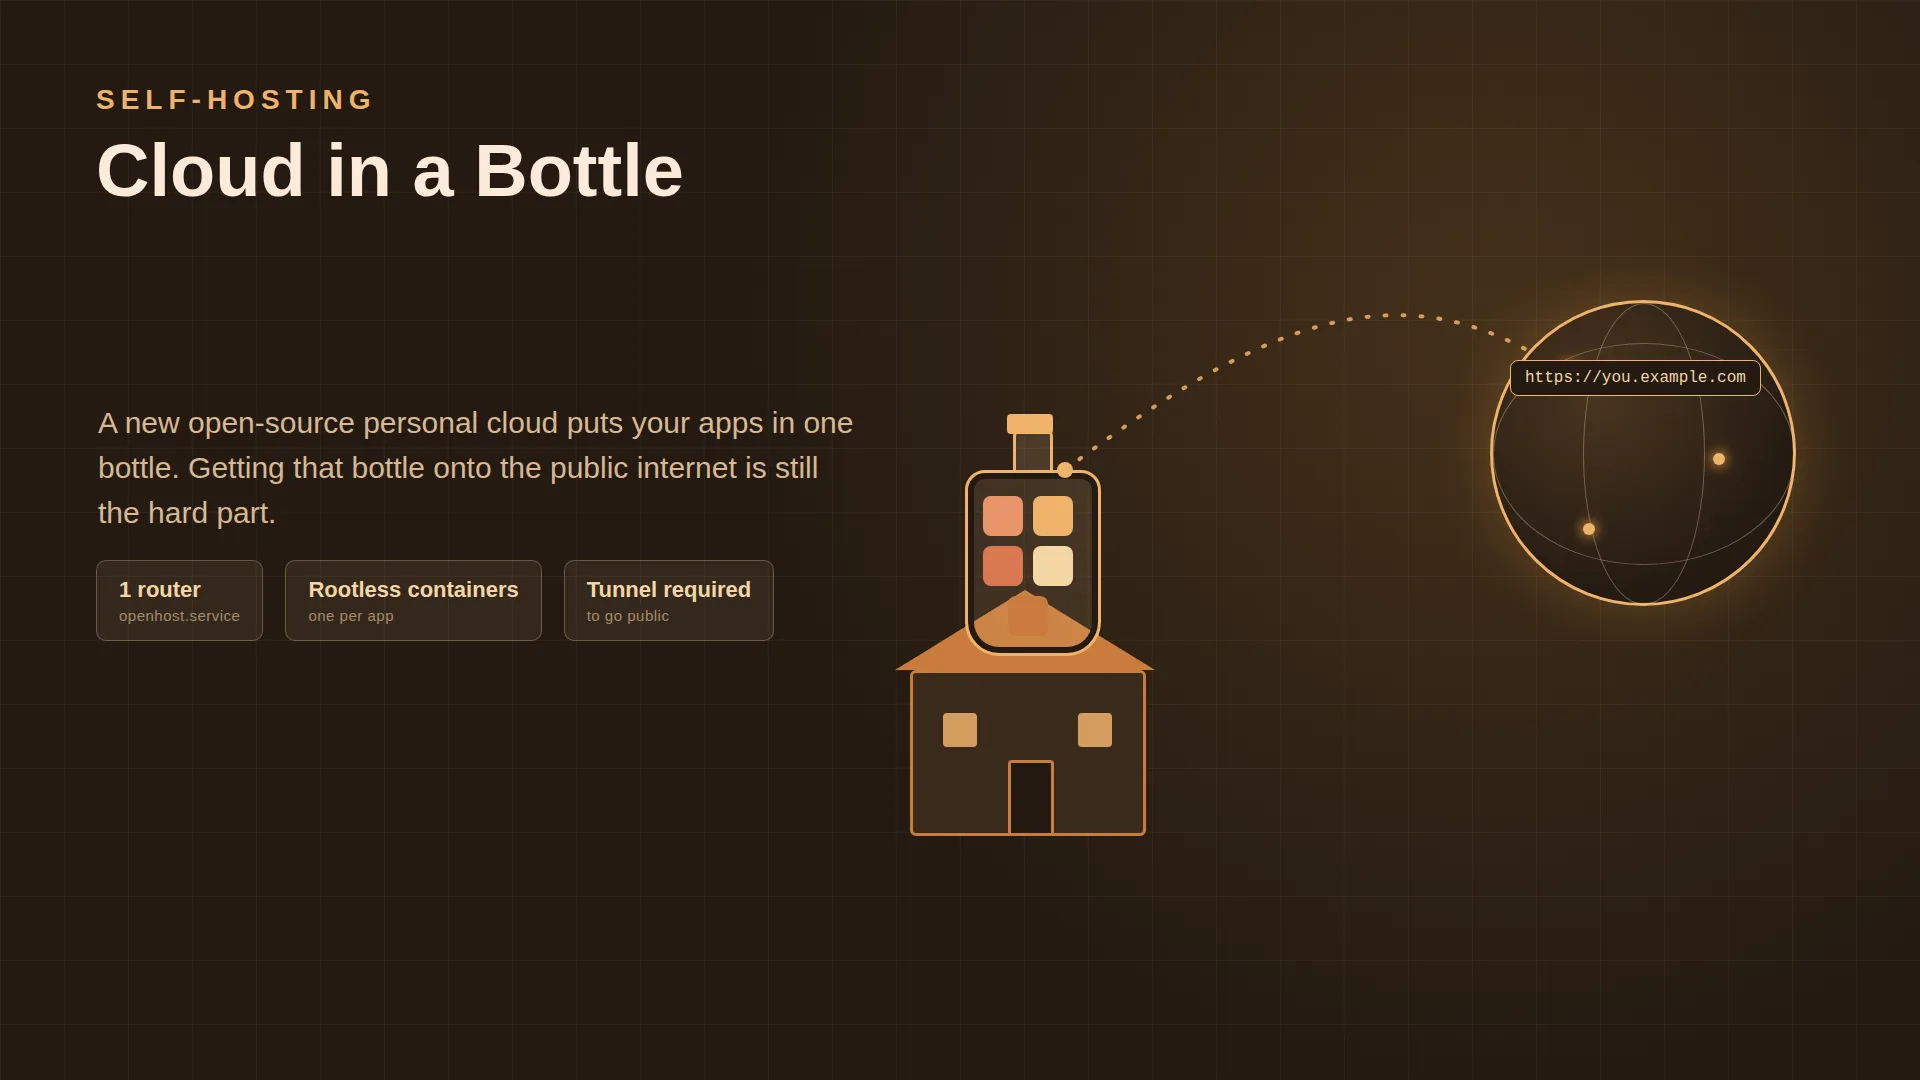
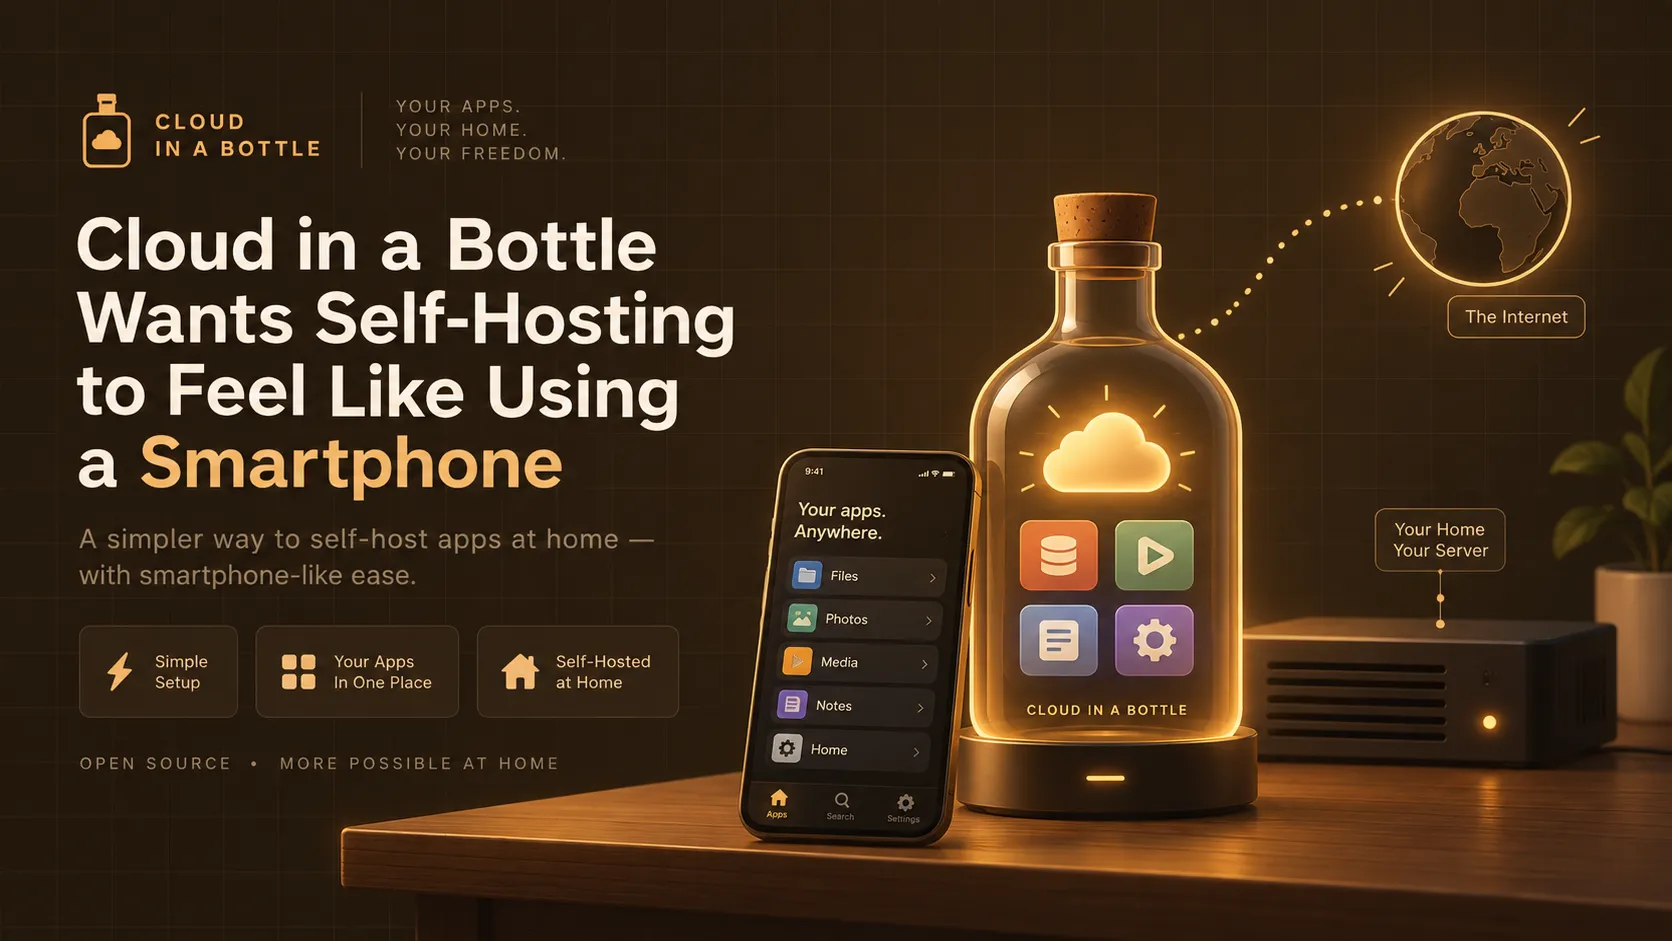
Add new images and update blog content for Ngrok alternatives and Cloud in a Bottle

diff --git a/content/blog/cloud_in_a_bottle_self_hosted_personal_cloud.md b/content/blog/cloud_in_a_bottle_self_hosted_personal_cloud.md
@@ -3,6 +3,7 @@ title: "Cloud in a Bottle Wants Self-Hosting to Feel Like Using a Smartphone"
 description: "Imbue's new open-source personal cloud platform packages containerized self-hosted apps behind one login and one router. It's a genuinely different take on self-hosting, but its own docs admit the networking story isn't solved yet - here's the gap and how to close it today."
 date: 2026-09-06T16:00:00+05:30
 draft: false
+eyebrow: "Cloud in a Bottle"
 tags: ["Cloud in a Bottle", "self-hosted", "open source", "networking", "Pinggy"]
 categories: ["Technology", "Self-Hosting", "Open Source"]
 og_image: "images/cloud_in_a_bottle_self_hosted_personal_cloud/cloud_in_a_bottle_self_hosted_personal_cloud_banner.webp"
@@ -20,8 +21,8 @@ It's not a small ambition. Self-hosting has had plenty of attempts before, and t
 {{% tldr %}}
 1. **What it is**: an open-source (AGPL-3.0), self-hostable "personal cloud OS" - one Ubuntu machine running a router service that reverse-proxies HTTP traffic to rootless Podman containers, one per app, with unified login and a permissioned API for apps to talk to each other.
 2. **Why it's different**: unlike Coolify or CapRover, apps aren't isolated islands - logging into your instance logs you into every app on it, and there's a cross-app service layer modeled loosely on how iOS or Android expose sensors and notifications to apps.
-3. **The catalog is small on purpose**: about 40 curated apps (Nextcloud, Jellyfin, Forgejo, Vaultwarden, Matrix/Synapse, Open WebUI, a Minecraft server, and more), because the project would rather ship fewer apps that feel polished than a long list of rough ones.
-4. **The networking gap, in their own words**: their docs recommend Cloudflare Tunnel for getting a home instance online, but say plainly that it "only works for HTTP-based traffic" and that "any apps specifying non-standard ports in the manifest won't work properly." Tailscale is private-only. Their own IPv4 tunnel service is "coming soon." Plain ISP dynamic IP plus port forwarding is explicitly "not an officially supported path."
+3. **The catalog is small on purpose**: 38 curated apps (Nextcloud, Jellyfin, Forgejo, Vaultwarden, a Matrix homeserver, Open WebUI, a Minecraft server, and more), because the project would rather ship fewer apps that feel polished than a long list of rough ones.
+4. **The networking gap, in their own words**: their docs recommend Cloudflare Tunnel for getting a home instance online, but say plainly that it "only works for HTTP-based traffic" and that "any apps specifying non-standard ports in the manifest won't work properly." Tailscale is private-only. Their own IPv4 tunnel service "should be available soon" but has not shipped. Plain ISP dynamic IP plus port forwarding is explicitly "not an officially supported path."
 5. **The fix that already exists**: {{< link href="https://pinggy.io" >}}Pinggy{{< /link >}}'s SSH-based tunnels handle both HTTP and raw TCP out of the box, work the same whether you're behind CGNAT or a router you don't control, and don't require delegating a domain's DNS to a third party first.
 {{% /tldr %}}
 
@@ -35,11 +36,13 @@ Routing is by hostname. `notes.mycooldomain.com` resolves to the app named `note
 
 ## The catalog, and who it's actually for
 
-At launch the {{< link href="https://cloudinabottle.org/apps" >}}app catalog{{< /link >}} runs to roughly 40 entries, and it reads like a fairly deliberate cross-section of "software people actually want to self-host": Nextcloud for files and calendar, Jellyfin and Navidrome for media, Forgejo for git hosting, Vaultwarden for passwords, a Matrix/Synapse chat stack, Pi-hole, Uptime Kuma, SearXNG, Miniflux, and on the newer end, Open WebUI and a Bifrost LLM gateway for people running local models. There's also a Minecraft server in there, which turns out to matter more than it sounds like it should - more on that shortly.
+{{< image "cloud_in_a_bottle_self_hosted_personal_cloud/cloudinabottle_app_catalog.webp" "The Cloud in a Bottle app catalog page, showing 38 apps filterable by category, including Bluesky, Calibre-Web, and Community Chat" >}}
+
+The {{< link href="https://cloudinabottle.org/apps" >}}app catalog{{< /link >}} currently runs to 38 entries, and it reads like a fairly deliberate cross-section of "software people actually want to self-host": Nextcloud for files and calendar, Jellyfin and Navidrome for media, Forgejo for git hosting, Vaultwarden for passwords, Pi-hole, Uptime Kuma, SearXNG, Miniflux, and on the newer end, Open WebUI and a Bifrost LLM gateway for people running local models. Chat is listed as "Community Chat", which is a Matrix Synapse homeserver with a bundled Cinny web client. A fair number of the entries are Imbue's own (Catalyst, Sculptor, OpenClaw, OpenChamber, Apple Health and Oura connectors), which is worth knowing when you read the catalog as a measure of third-party adoption. There's also a Minecraft server in there, which turns out to matter more than it sounds like it should - more on that shortly.
 
 Polizzi is upfront that the list is small on purpose: "our curated app catalog... aim to maintain a high bar, only adding things that actually deliver a great user experience, so it's pretty small right now." That's a defensible bet against the alternative failure mode, a 500-app catalog where half the entries are broken Docker Compose files nobody's tested in a year, but it does mean the project is currently more interesting to the kind of person reading this post than to the "friends and parents" audience it says it's ultimately aiming at.
 
-You get three ways to run it: a managed instance through Imbue (a $10 free credit to start), a rented cloud VPS you administer yourself, or your own hardware, a spare desktop, an old laptop, or a Raspberry Pi, either in a VM or bare metal. The bare-metal install is a single provisioning script run over SSH as root, and it's the option most in the spirit of the project's own pitch, since it's the one where you genuinely own the box the data lives on.
+You get three ways to run it: a managed instance through Imbue, a rented cloud VPS you administer yourself, or your own hardware, a spare desktop, an old laptop, or a Raspberry Pi, either in a VM or bare metal. Managed pricing starts at $5/month for a 2GB, 2-vCPU instance, with $10/month and $20/month tiers above it and a $10 starter credit, so the small tier is effectively free for the first couple of months. The bare-metal install is a single provisioning script run over SSH as root, and it's the option most in the spirit of the project's own pitch, since it's the one where you genuinely own the box the data lives on.
 
 ## Where the story gets honest: getting a home instance online
 
@@ -49,7 +52,9 @@ Here's the part of the docs worth reading closely, because it's unusually candid
 
 **Tailscale** is the other officially documented path, but it isn't actually exposing anything publicly: "This approach does not make the instance publicly accessible. It makes the instance available only to devices on your tailnet." Fine for reaching your own NAS from your own laptop, useless the moment you want to hand a link to a friend who isn't running Tailscale.
 
-**Their own IPv4 tunnel service** is what they'd rather ship instead of leaning on Cloudflare, and the reasoning is worth quoting in full because it's a precise description of the gap: "It ought to be possible to operate a service that attaches an IP address to a server and forwards any traffic arriving at that IP to your firewalled Bottle instance over a reverse proxy connection, thus avoiding any need for an IP from your ISP and fiddling with router settings. Unfortunately, we can't find any service that actually does this for an individual for reasonable price - so we're building this ourselves." It's listed as "coming soon."
+**Their own IPv4 tunnel service** is what they'd rather ship instead of leaning on Cloudflare, and the reasoning is worth quoting in full because it's a precise description of the gap: "It ought to be possible to operate a service that attaches an IP address to a server and forwards any traffic arriving at that IP to your firewalled Bottle instance over a reverse proxy connection, thus avoiding any need for an IP from your ISP and fiddling with router settings. Unfortunately, we can't find any service that actually does this for an individual for reasonable price - so we're building this ourselves, to make it easier for users to get their self-hosted instances online. This feature should be available soon!" As of this update it still hasn't shipped: the roadmap lists "IP tunnels, for easier setup of self-hosted instances without a static IPv4" among planned opt-in managed services with no date attached, and the managed pricing page mentions no IP tunnel or static IP option at all.
+
+{{< image "cloud_in_a_bottle_self_hosted_personal_cloud/cloudinabottle_ipv4_tunnel_docs.webp" "Cloud in a Bottle documentation admitting it can't find an affordable IPv4 tunnel service and is building one itself, saying the feature should be available soon" >}}
 
 **Plain ISP dynamic IP with router port forwarding** is explicitly waved off: "This isn't an officially supported path," and the docs list exactly the reasons anyone who's tried this knows firsthand - CGNAT means you may not have your own public IP at all, residential IPs move around so DNS needs constant updating, ISPs commonly block inbound ports like 25 for SMTP, and you still have to go configure your router either way.
 
@@ -79,19 +84,31 @@ And for the router's own dashboard, or any of the HTTP apps in the catalog, the 
 ssh -p 443 -R0:localhost:8080 free.pinggy.io
 ```
 
-That's the exact same `ssh -L 8080:localhost:8080` instinct the setup docs already use to reach the dashboard privately during install, just pointed outward instead of at your own laptop. Sign in on {{< link href="https://dashboard.pinggy.io" >}}Pinggy's dashboard{{< /link >}} and you can attach a persistent custom domain to either tunnel, which sidesteps the other awkward requirement in Cloud in a Bottle's Cloudflare Tunnel guide: delegating your entire domain's nameservers to Cloudflare before you can even start. If you'd rather keep DNS with your current registrar, that's not a hard requirement here the way it is with the wildcard-zone-delegation approach the docs walk through for both Cloudflare and the manual acme.sh route.
+That's the exact same `ssh -L 8080:localhost:8080` instinct the setup docs already use to reach the dashboard privately during install, just pointed outward instead of at your own laptop.
+
+One caveat worth being straight about: the anonymous free tunnel in both commands above runs for 60 minutes and hands back a new random address every time it reconnects. That's fine for checking that the Minecraft server is reachable from outside your network, and wrong for a box you intend to leave online. A Pro token drops the timeout and pins the address, the CLI reconnects on its own if the link drops, and with plain SSH you'll want `-o ServerAliveInterval=60` so an idle connection doesn't get closed under you. Sign in on {{< link href="https://dashboard.pinggy.io" >}}Pinggy's dashboard{{< /link >}} and you can attach a persistent custom domain to either tunnel, which sidesteps the other awkward requirement in Cloud in a Bottle's Cloudflare Tunnel guide: delegating your entire domain's nameservers to Cloudflare before you can even start. If you'd rather keep DNS with your current registrar, that's not a hard requirement here the way it is with the wildcard-zone-delegation approach the docs walk through for both Cloudflare and the manual acme.sh route.
 
 None of this replaces the IPv4 tunnel service Imbue is building. A dedicated address forwarding everything, including protocols that don't run over a single TCP connection per client, is a genuinely different and in some ways more complete answer, and there's real value in a self-hosting platform owning that piece end to end instead of telling users to go find a third-party service. But "coming soon" isn't a networking story you can build a home server on this week, and for anyone who wants to run the Minecraft server or a Matrix homeserver in that catalog today rather than in a future release, a TCP tunnel is the thing that makes it reachable in the meantime.
 
 ## The other detail worth noting: it's built with coding agents in mind
 
-One more piece that fits the moment: Cloud in a Bottle ships a `bottle` CLI specifically so a coding agent can "package a project as a Bottle app, deploy it, read the build log, fix what broke, and reload" without ever touching a raw credential, and the docs are served as plain Markdown at `/docs/all.md` so an agent can pull the whole manual in one request instead of scraping rendered HTML. It's a small feature, but it's a sign of who the project expects to be doing a chunk of the app-porting and glue work going forward, and it lines up with Polizzi's own admission that early users will "likely need a bit of technical familiarity (or a coding agent)" to adapt software to run on the platform.
+One more piece that fits the moment: Cloud in a Bottle ships a `bottle` CLI specifically so a coding agent can "package a project as a Bottle app, deploy it, read the build log, fix what broke, and reload" without ever touching a raw credential, because the CLI "injects auth so the agent never handles a token." The docs lean the same way: the whole manual is served as plain Markdown at `/docs/all.md` so an agent can pull it in one request instead of scraping rendered HTML, any individual page is available the same way by appending `.md`, and there's an installable agent skill for the platform. It's a small feature, but it's a sign of who the project expects to be doing a chunk of the app-porting and glue work going forward, and it lines up with Polizzi's own admission that early users will "likely need a bit of technical familiarity (or a coding agent)" to adapt software to run on the platform.
+
+## How the launch landed
+
+The launch post reached the Hacker News front page on 6 September and finished at 652 points across 321 comments, a strong showing for a self-hosting project. Much of the praise was for the writeup itself, the same candour that makes the docs worth reading. The criticism clustered in four places, and it's worth knowing before you commit a weekend to this.
+
+The most repeated objection was that the space is crowded and the launch post didn't engage with it. Cloudron came up again and again, usually from people noting it already does packaged apps with unified auth and has years more operational polish, alongside Umbrel, CapRover, and runtipi. Second was the catalog, with Immich and Home Assistant the two most-missed entries, and more than one commenter describing it as a rather tiny mobile app store. Third was backups, which the managed plans don't really answer yet; Polizzi's reply in the thread put instances at roughly 50GB of disk with an S3 archive tier as the plan. Fourth, and most relevant if you're running this at home, several people balked at CoreDNS answering on port 53 as the zone's authoritative nameserver, which is a real ask for a machine on a residential connection.
+
+There was also a self-inflicted one. Shortly before launch, an account filed eleven issues on unrelated projects asking them to support a `cloudinabottle.toml` manifest. It turned out to be an Imbue employee and the pattern looked agent-generated. Polizzi addressed it in the thread, called it a mistake, and said it would stop. Worth noting mainly because a project asking for trust with your personal data gets judged on how it handles that kind of thing.
 
 ## Should you try it
 
 If you already run a homelab and are tired of Nextcloud's performance or Coolify's per-app logins, Cloud in a Bottle is worth an afternoon on a spare Raspberry Pi. The architecture is sound, the security model (rootless containers, centralized auth, a real permission boundary between apps) is a step up from the YunoHost approach a lot of current self-hosters are used to, and the code is AGPL-3.0 and genuinely open, not open-core with the good parts held back for the managed tier.
 
-If you're coming to it cold, go in with the right expectations: the catalog is intentionally small, the project is six months old by its own account, and the networking layer that gets your instance onto the actual internet is, by the maintainers' own admission, not finished. That last part just happens to be a solved problem already, and not one you need to wait on a roadmap item for. Point a tunnel at it and it's a solved problem today.
+The {{< link href="https://github.com/cloud-in-a-bottle/cloud-in-a-bottle" >}}repository{{< /link >}} backs that up: about 1,100 stars, v0.2.0 tagged the day before launch, and commits landing steadily through the week after it. The committers are almost entirely Imbue staff, though, and Imbue is an AI research lab that raised $200M at a billion-plus valuation to build coding agents, with several of its own tools sitting in the catalog. That cuts both ways. The project is unlikely to run out of money, and it is also a side product of a company whose main business is something else.
+
+If you're coming to it cold, go in with the right expectations: the catalog is intentionally small, the project only went public on 5 September 2026 after six-plus months of private development, and the networking layer that gets your instance onto the actual internet is, by the maintainers' own admission, not finished. That last part just happens to be a solved problem already, and not one you need to wait on a roadmap item for. Point a tunnel at it and it's a solved problem today.
 
 ## Conclusion
 

diff --git a/content/blog/best_ngrok_alternatives.md b/content/blog/best_ngrok_alternatives.md
@@ -2,11 +2,11 @@
  title: "Top 10 Ngrok alternatives in 2026" 
  description: "Discover the top 10 Ngrok alternatives in 2026. Compare Pinggy, Cloudflare Tunnel, Tailscale, Zrok, Localtunnel, LocalXpose and more on features, AI agent support, ease of use, and prices."
  date: 2023-02-01T14:15:25+05:30
- lastmod: 2026-09-10T14:15:25+05:30
+ lastmod: 2026-09-11T14:15:25+05:30
  draft: false 
  tags: ["tunneling", "comparison", "developer tools", "AI agents", "open source"]
  og_image: "images/best_ngrok_alternatives/img1.webp"
[2 lines of base64/hex data omitted]
  outputs:
   - HTML
   - AMP
@@ -72,7 +72,13 @@ The free plan gives you 1GB of transfer, 20k HTTP/S requests, 3 endpoints, and a
 
 ## 1. Pinggy.io
 
-[Pinggy.io](https://pinggy.io) stands out because of its **unlimited bandwidth** and the fact that it lets you start a tunnel without downloading anything. A single command gives users access to your website / app hosted in localhost without configuring the cloud, or any port forwarding, or DNS, or VPN. It also supports UDP tunnels which Ngrok lacks. The Pro plan is 3 USD per month, less than half of Ngrok's entry plan.
+[Pinggy.io](https://pinggy.io) lets you start a tunnel without downloading anything. A single command gives users access to your website / app hosted in localhost without configuring the cloud, or any port forwarding, or DNS, or VPN. The Pro plan is 3 USD per month, less than half of Ngrok's entry plan.
+
+Three things in particular are Pinggy's advantages over Ngrok:
+
+- **Unlimited bandwidth.** No monthly transfer cap and no per-GB overage on paid plans, where Ngrok's entry plan stops at 5GB and then bills $0.10/GB.
+- **Apex domain support.** You can point `example.com` itself at a tunnel, not just `app.example.com`. Ngrok's own docs state it does not support apex domains.
+- **UDP tunnels.** Ngrok has no UDP support at all, so game servers, DNS, WireGuard, and QUIC are off the table there.
 
 To get how simple it is to open a tunnel, here is an example. If you want to share your React app running on `localhost:3000`, you can do so using pinggy with the command.
 
@@ -120,7 +126,7 @@ Pinggy is one of the cheaper Ngrok alternatives. It has a free tier, and the pai
 <tr>
     <td style="border:1px solid #ddd;padding:0.45em;">Unlimited bandwidth on paid plan</td>
     <td style="border:1px solid #ddd;padding:0.45em;">Yes</td>
-    <td style="border:1px solid #ddd;padding:0.45em;">No (entry paid plan has transfer limits)</td>
+    <td style="border:1px solid #ddd;padding:0.45em;">No (5GB on the Hobbyist plan, then $0.10/GB)</td>
 </tr>
 <tr style="background:#f9fbfd;">
     <td style="border:1px solid #ddd;padding:0.45em;">UDP tunnel support</td>
@@ -139,6 +145,12 @@ Pinggy is one of the cheaper Ngrok alternatives. It has a free tier, and the pai
 </tr>
 </tbody>
 </table>
+
+The apex domain row is not our reading of the docs, it is what Ngrok says itself:
+
+{{< image "best_ngrok_alternatives/ngrok_no_apex_domains.webp" "Ngrok documentation stating that ngrok does not currently support apex domains" >}}
+
+Source: Ngrok's {{< link href="https://ngrok.com/docs/gateway/domains/custom-domains" >}}Using Custom Domains{{< /link >}} docs. With Pinggy you can put a tunnel on `example.com` directly, no `www` or subdomain required.
 
 <!-- <h3 class="h5">Comparing Ngrok and Pinggy:</h3>
 
